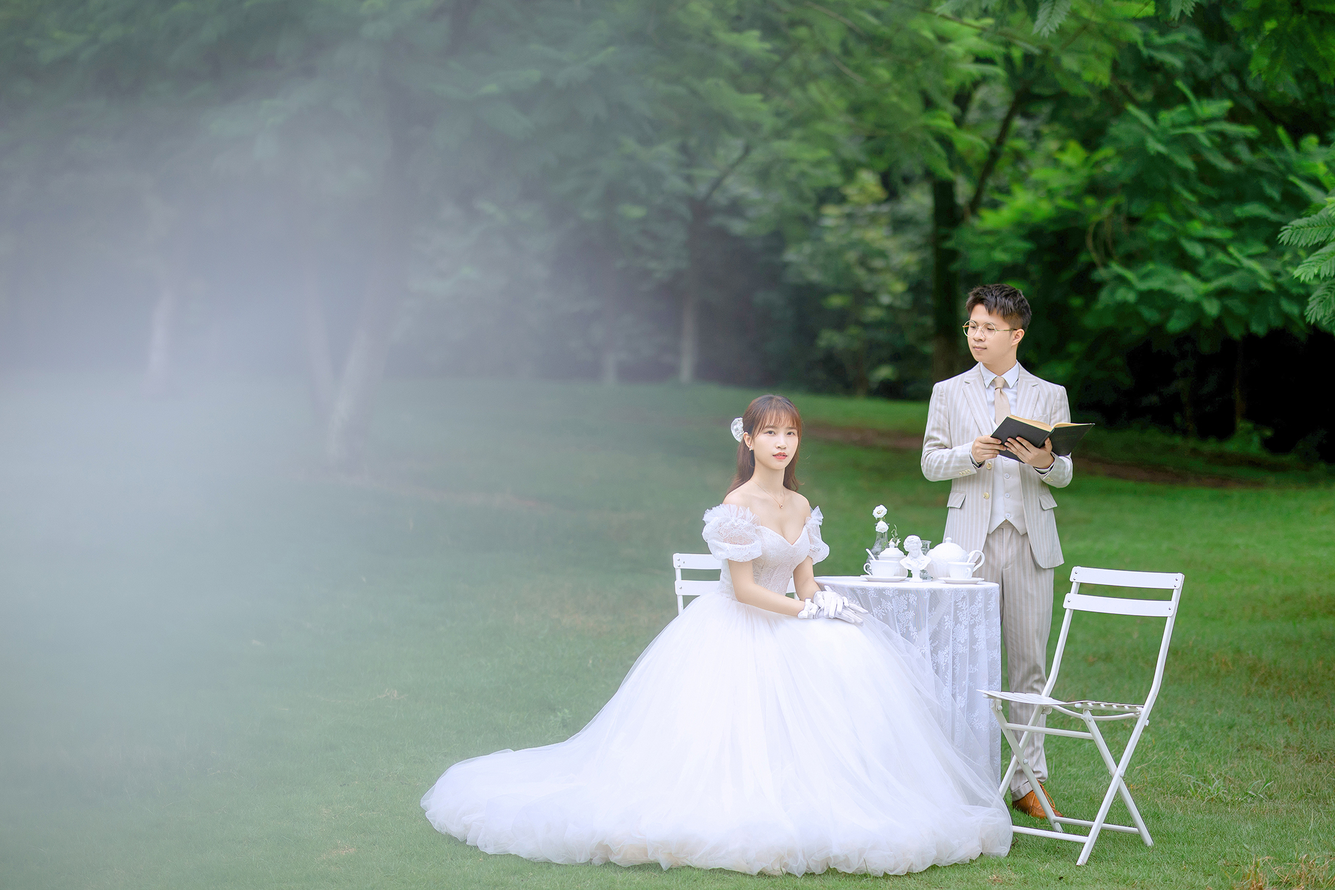
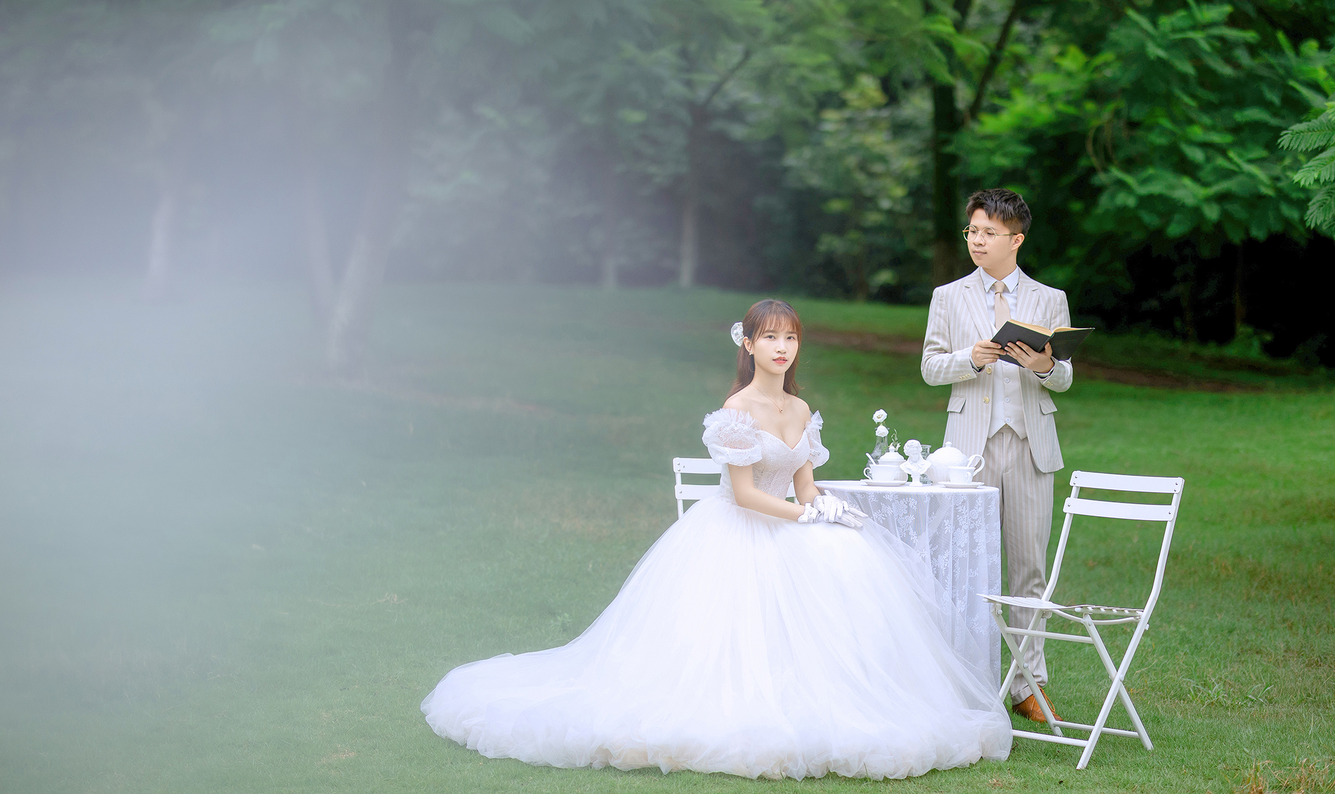
Prepare the basic page for ICP

diff --git a/src/PCICP.tsx b/src/PCICP.tsx
@@ -1,62 +1,96 @@
-import Particles, { Type } from 'react-particles-js';
-import logo from './logo.svg';
+import Particles from 'react-particles-js';
+import { useViewport } from './component/Page';
 import './PCICP.css';
 
 const PCICP = () => {
+  const { width, height } = useViewport()
   return (
     <div className="PCICP">
-      <Particles
-        params={{
-          "particles": {
-              "number": {
-                  "value": 160,
-                  "density": {
-                      "enable": false
-                  }
-              },
-              "size": {
-                  "value": 3,
-                  "random": true,
-                  "anim": {
-                      "speed": 4,
-                      "size_min": 0.3
-                  }
-              },
-              "line_linked": {
-                  "enable": false
-              },
-              "move": {
-                  "random": true,
-                  "speed": 1,
-                  "direction": "top",
-                  "out_mode": "out"
-              }
-          },
-          "interactivity": {
-              "events": {
-                  "onhover": {
-                      "enable": true,
-                      "mode": "bubble"
-                  },
-                  "onclick": {
-                      "enable": true,
-                      "mode": "repulse"
-                  }
-              },
-              "modes": {
-                  "bubble": {
-                      "distance": 250,
-                      "duration": 2,
-                      "size": 0,
-                      "opacity": 0
-                  },
-                  "repulse": {
-                      "distance": 400,
-                      "duration": 4
-                  }
-              }
-          }
-      }} />
+      <div className="photo-wrapper" style={{
+          width,
+          height
+        }}>
+        <img src="./pcbg.jpg" style={{
+          width,
+          height,
+          objectFit: 'cover'
+        }}/>
+      </div>
+      <div className="particles-wrapper" style={{
+          width,
+          height
+        }}>
+        <Particles
+          width={(width-4).toString() + 'px'}
+          height={(height-4).toString() + 'px'}
+          params={{
+            "particles": {
+                "number": {
+                    "value": 160,
+                    "density": {
+                        "enable": false
+                    }
+                },
+                "size": {
+                    "value": 3,
+                    "random": true,
+                    "anim": {
+                        "speed": 4,
+                        "size_min": 0.3
+                    }
+                },
+                "line_linked": {
+                    "enable": false
+                },
+                "move": {
+                    "random": true,
+                    "speed": 1,
+                    "direction": "top",
+                    "out_mode": "out"
+                }
+            },
+            "interactivity": {
+                "events": {
+                    "onhover": {
+                        "enable": true,
+                        "mode": "bubble"
+                    },
+                    "onclick": {
+                        "enable": true,
+                        "mode": "repulse"
+                    }
+                },
+                "modes": {
+                    "bubble": {
+                        "distance": 250,
+                        "duration": 2,
+                        "size": 0,
+                        "opacity": 0
+                    },
+                    "repulse": {
+                        "distance": 400,
+                        "duration": 4
+                    }
+                }
+            }
+        }} />
+      </div>
+      <div className="text-wrapper" style={{
+        left: width/20 + 'px',
+        top: '50px',
+        width: width/2.5 + 'px',
+        height: (height - 2 * 50) + 'px'
+      }}>
+        <div className="main-text" style={{
+            paddingTop: height/5 + 'px'
+        }}>
+          <p>钟典和徐颖</p>
+          <p>婚礼将于2021年9月21日举行</p>
+        </div>
+        <div className="icp-text">
+          <p>ICP备</p>
+        </div>
+      </div>
     </div>
   );
 }

diff --git a/src/component/Page.tsx b/src/component/Page.tsx
@@ -1,0 +1,47 @@
+import React from 'react';
+
+const viewportContext = React.createContext({} as any);
+
+const ViewportProvider = ({ children }: any) => {
+  const [width, setWidth] = React.useState(window.innerWidth);
+  const [height, setHeight] = React.useState(window.innerHeight);
+  const handleWindowResize = () => {
+    setWidth(window.innerWidth);
+    setHeight(window.innerHeight);
+  };
+
+  React.useEffect(() => {
+    window.addEventListener("resize", handleWindowResize);
+    return () => window.removeEventListener("resize", handleWindowResize);
+  }, []);
+
+  return (
+    <viewportContext.Provider value={{ width, height }}>
+      {children}
+    </viewportContext.Provider>
+  );
+};
+
+const useViewport = () => {
+  const { width, height } = React.useContext(viewportContext);
+  return { width, height };
+};
+
+// You can add break point to layout mobile and pc differently
+
+const Page = (props: any) => {
+  const { width, height } = React.useContext(viewportContext);
+  return (
+    <ViewportProvider>
+      <div className="page" style={{
+        height: height,
+        width: width
+      }}>
+        {props.children}
+      </div>
+    </ViewportProvider>
+  );
+}
+
+export  { useViewport };
+export default Page;

diff --git a/src/PCICP.css b/src/PCICP.css
@@ -1,3 +1,35 @@
 .PCICP {
   background-color: #282c34;
 }
+
+.photo-wrapper {
+  position: absolute;
+  z-index: 1;
+}
+
+.particles-wrapper {
+  position: absolute;
+  z-index: 2;
+}
+
+.text-wrapper {
+  position: absolute;
+  z-index: 3;
+  background-color: rgba(255,255,255,0.3);
+  border-radius: 20px;
+  text-align: center;
+}
+
+.main-text {
+  color: #fff;
+  font-weight: 600;
+  opacity: 1;
+  font-size: 28px;
+}
+
+.icp-text {
+  position: absolute;
+  bottom: 0;
+  width: 100%;
+  opacity: 0.6;
+}

diff --git a/public/index.html b/public/index.html
@@ -24,7 +24,7 @@
       work correctly both with client-side routing and a non-root public URL.
       Learn how to configure a non-root public URL by running `npm run build`.
     -->
-    <title>React App</title>
+    <title>钟典和徐颖</title>
   </head>
   <body>
     <noscript>You need to enable JavaScript to run this app.</noscript>

diff --git a/src/index.tsx b/src/index.tsx
@@ -1,11 +1,14 @@
 import React from 'react';
 import ReactDOM from 'react-dom';
 import './index.css';
+import Page from './component/Page'
 import PCICP from './PCICP';
 
 ReactDOM.render(
   <React.StrictMode>
-    <PCICP />
+    <Page>
+      <PCICP />
+    </Page>
   </React.StrictMode>,
   document.getElementById('root')
 );
